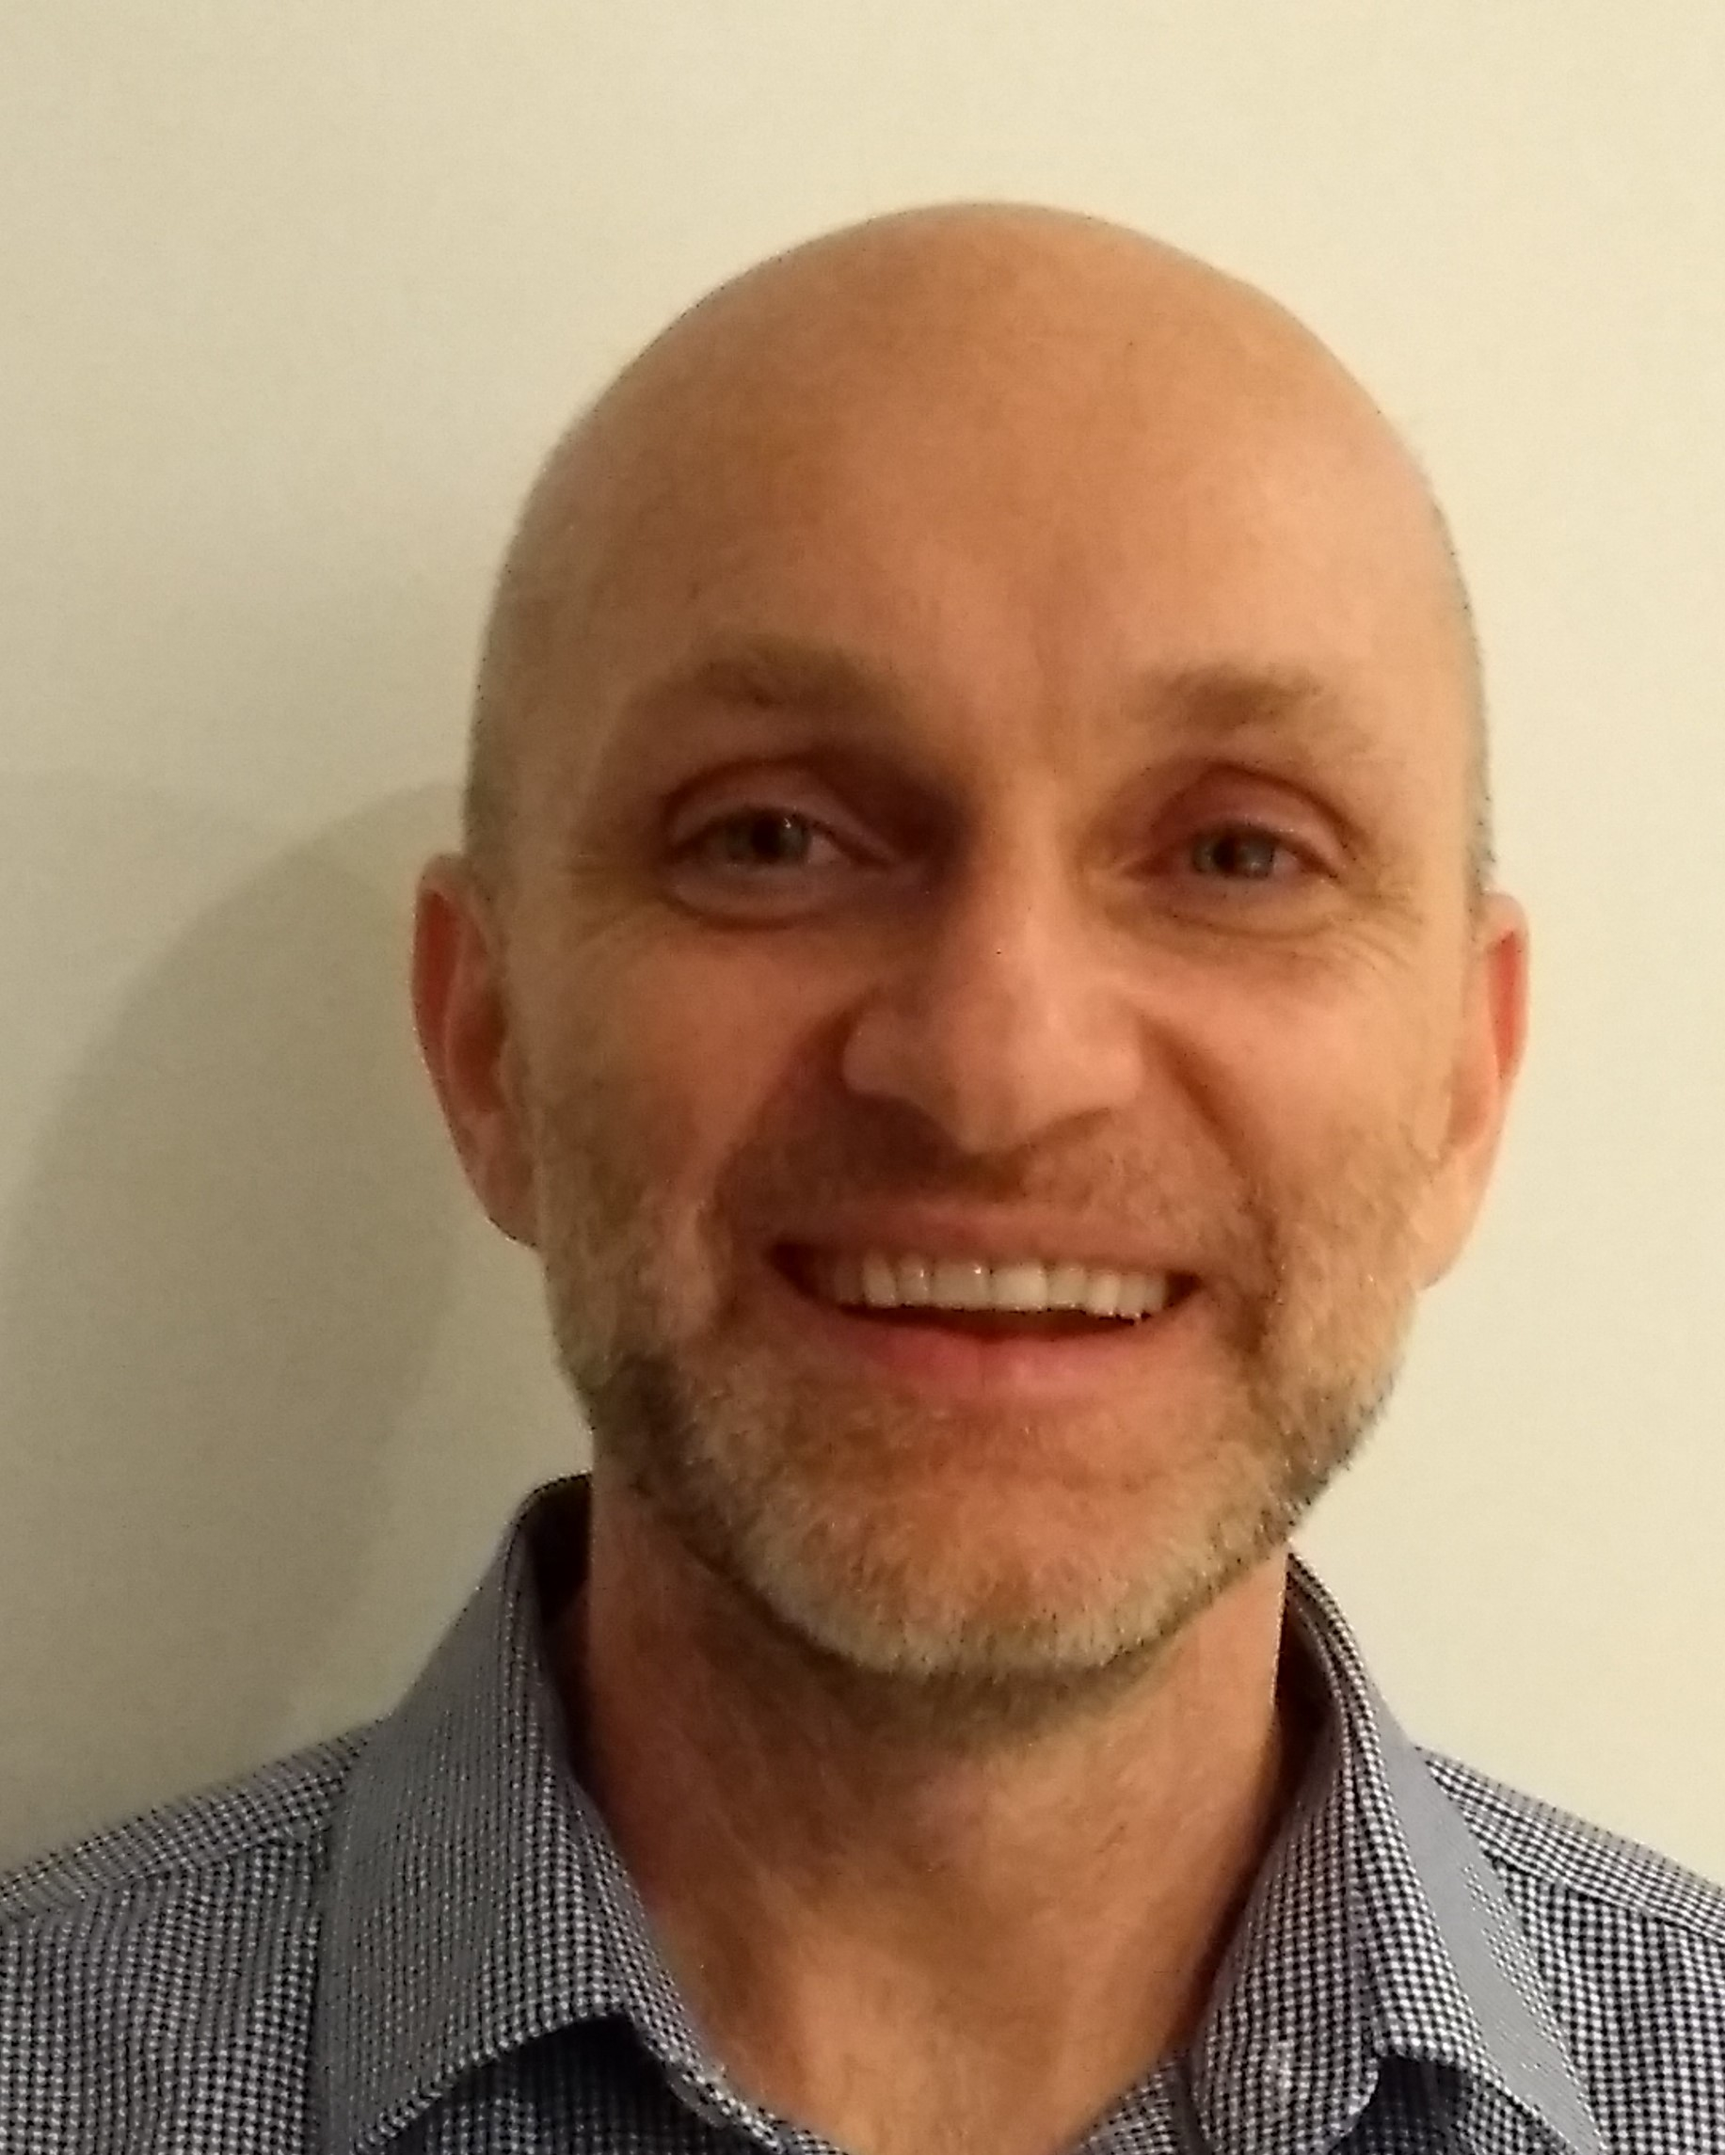
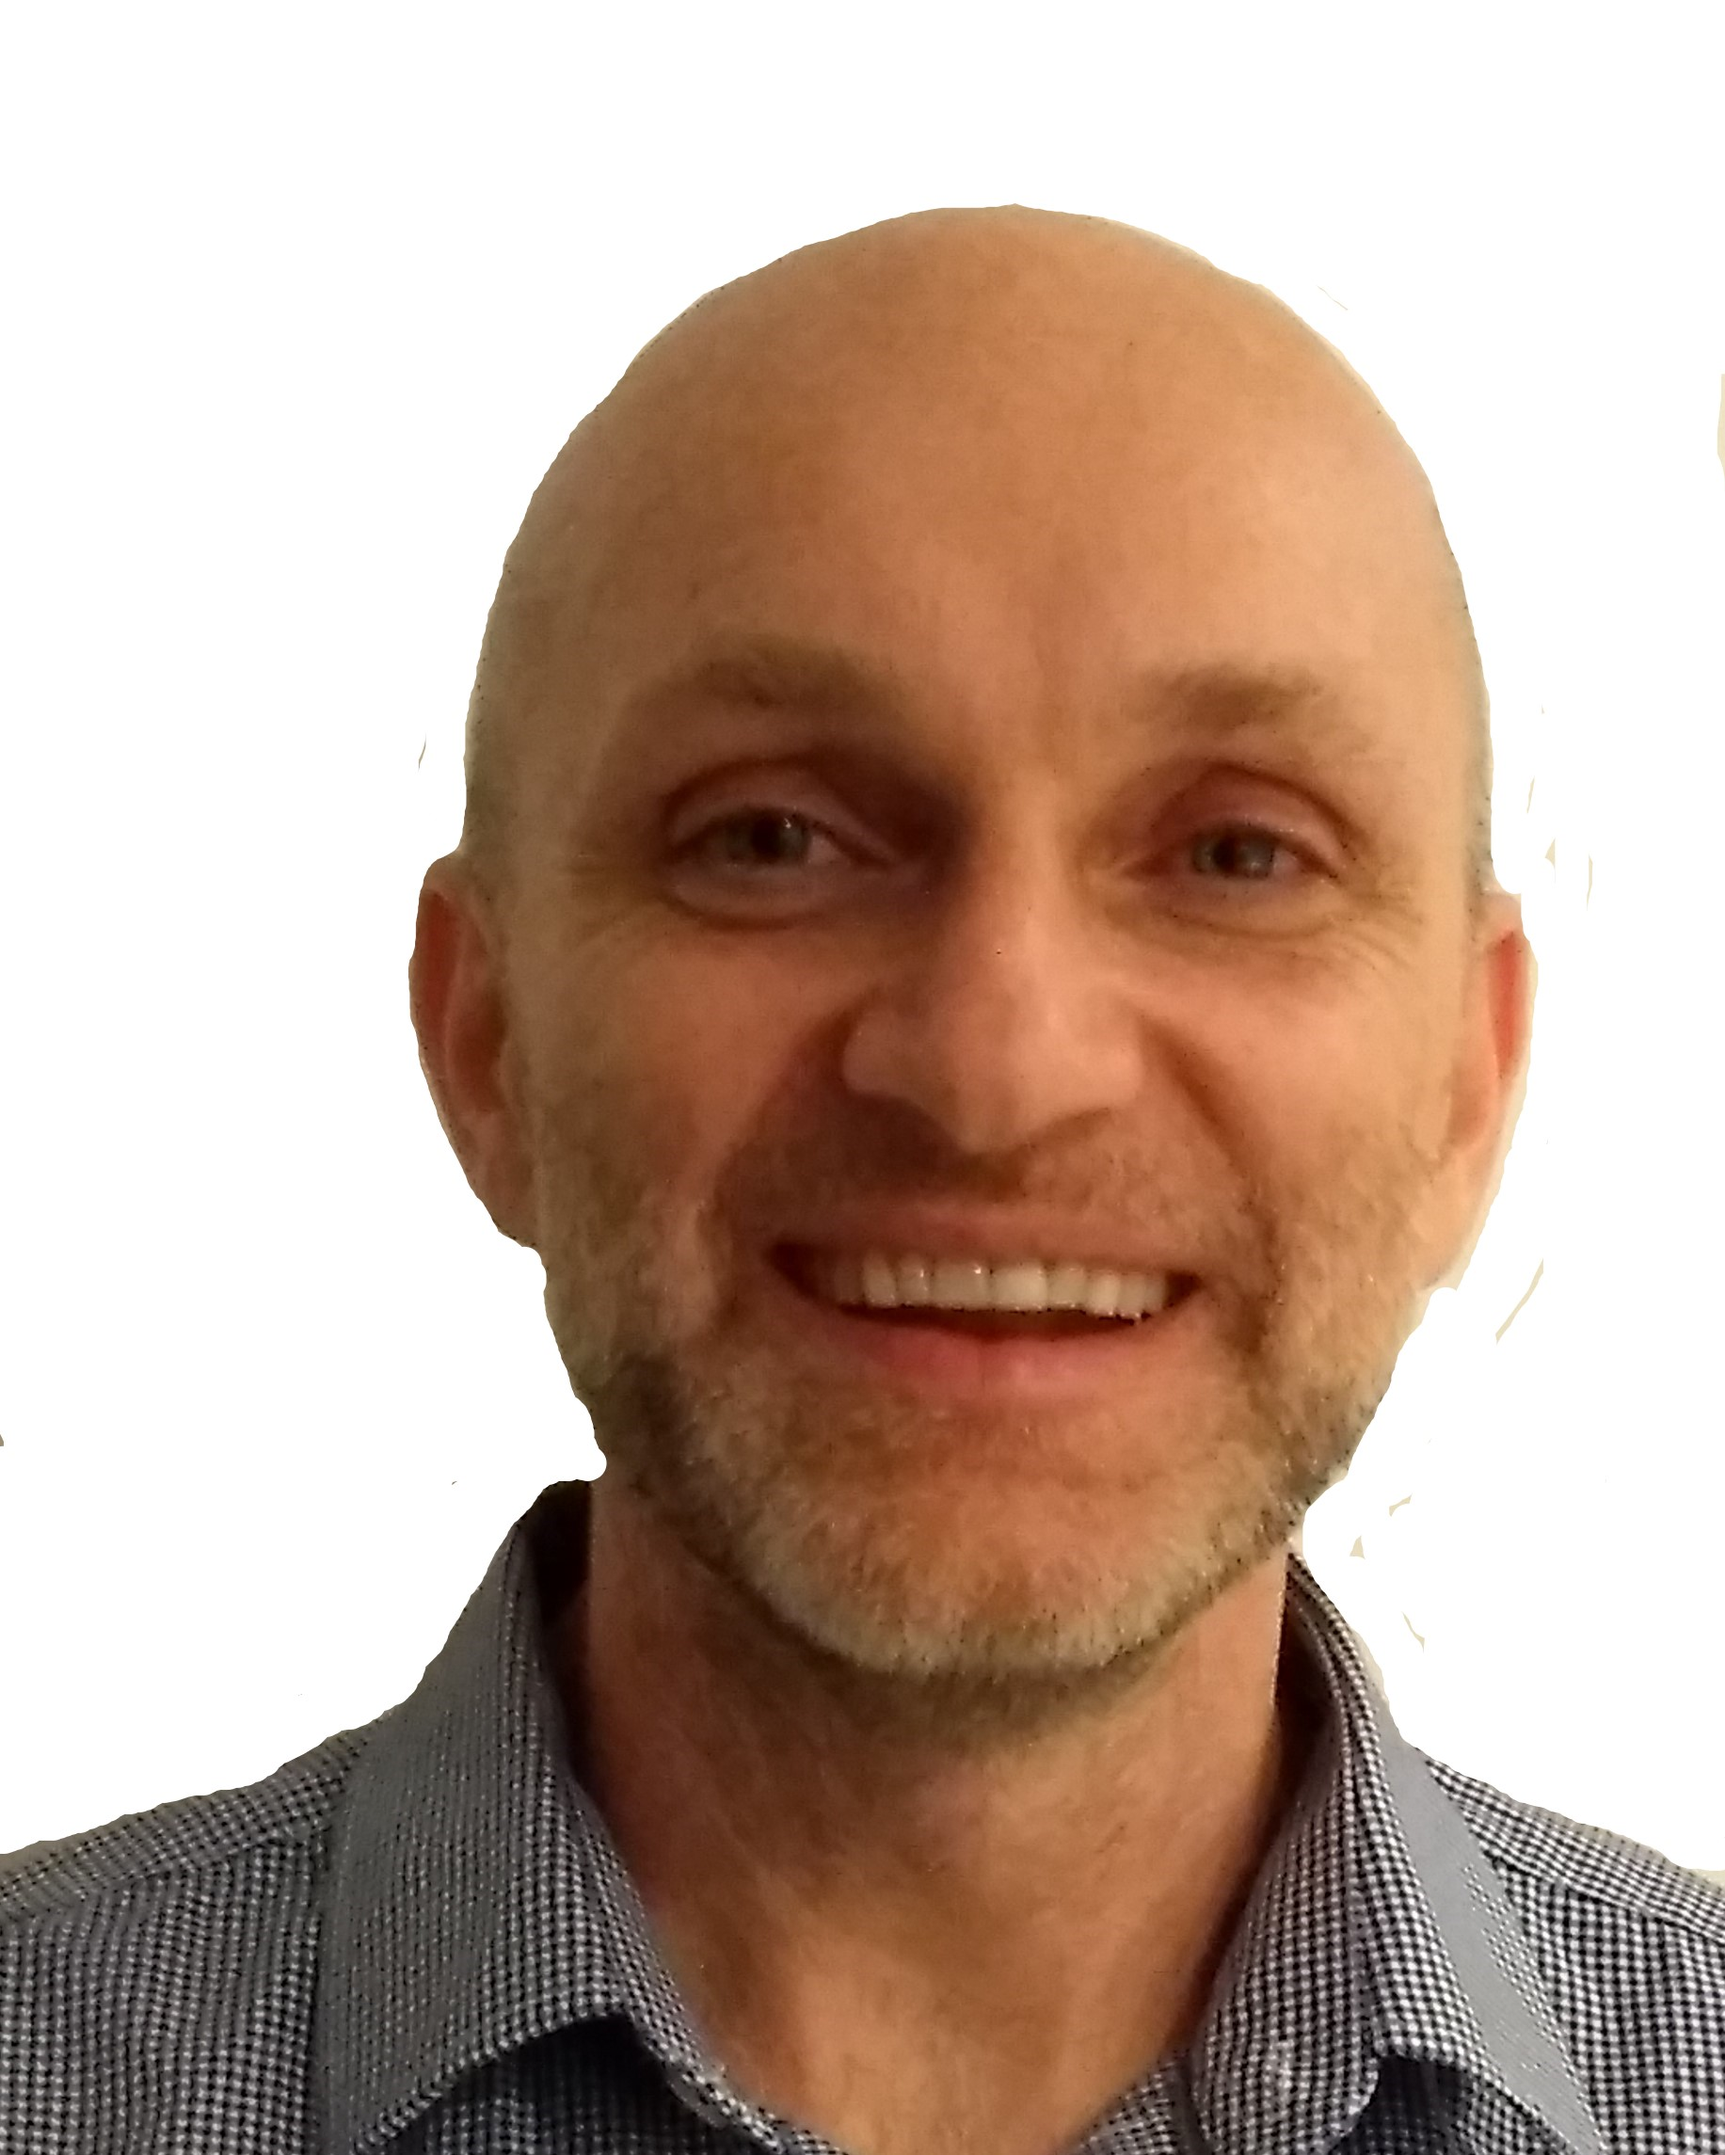
added team

diff --git a/src/assets/css/theme.css b/src/assets/css/theme.css
@@ -756,6 +756,39 @@ padding: 20px 20px 20px 20px;
 	margin-right: auto;
 }
 
+.bodyPartSeven {
+	padding: 10px 10px 20px 20px;
+	background-color: #f8f8f8;
+}
+.team {
+	text-align:center;
+	margin-bottom:30px;
+}
+.meetTeam {padding:50px 0px 30px 0px;}
+.meetTeam h3 {font-size:36px; line-height:36px; color:#2d2d2d; padding-bottom:40px; text-align:center;}
+.teamBoxPic {
+	height: 100px;
+	font-size: 0;
+	text-align: center;
+	max-width: 100%;
+	position: relative;
+	overflow: hidden;
+	border-radius:100%;
+}
+.teamBoxPic img {
+  padding: 10px 0px 0px 0px;
+  display: inline-block;
+  vertical-align: middle;
+  max-height: 100%;
+  max-width: 100%;
+  position:absolute;
+	left: 50%;
+	top: 50%;
+	transform: translate(-50%,-50%);
+	-webkit-transform: translate(-50%,-50%);
+	-moz-transform: translate(-50%,-50%);
+}
+
 
 .footerSection {
 color:  #FFFFFF;

diff --git a/src/app/theteam/theteam.component.html b/src/app/theteam/theteam.component.html
@@ -1,4 +1,4 @@
-<section class="bodyPartSix">
+<section class="bodyPartSeven">
 		<div class="container-fluid">
     	<div class="meetTeam">
         	<h3>Meet The Team</h3>
@@ -13,7 +13,7 @@
 		                    <div class="col-rs-3 col-xs-3 col-sm-3">
 			                   	  <div class="teamBox">
 			                      	<a href="https://www.linkedin.com/in/jackskeating/">
-			                            <div class="teamBoxPic"><img src="/assets/images/theteam/kevin.jpg" alt="" class="img-circle"></div>
+			                            <div class="teamBoxPic"><img src="/assets/images/theteam/jackkeating.png" alt="" class="img-circle"></div>
 			                            <h5>Jack Keating</h5>
 			                            <p>CEO</p>
 			                        </a>

diff --git a/src/app/home/home.component.html b/src/app/home/home.component.html
@@ -5,3 +5,4 @@
 <app-bodypart4></app-bodypart4>
 <app-bodypart5></app-bodypart5>
 <app-bodypart6></app-bodypart6>
+<app-theteam></app-theteam>
